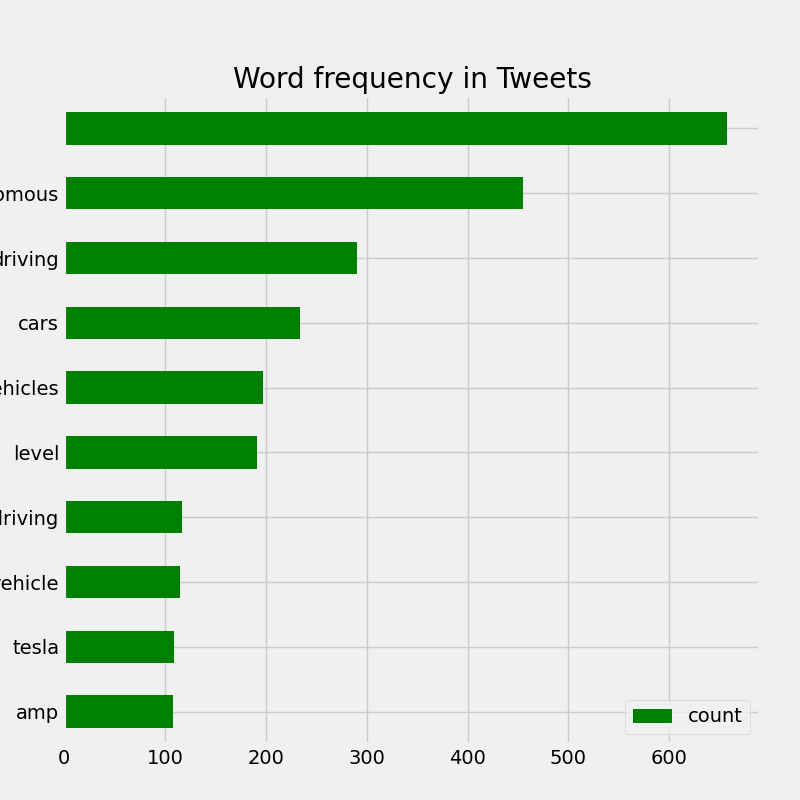
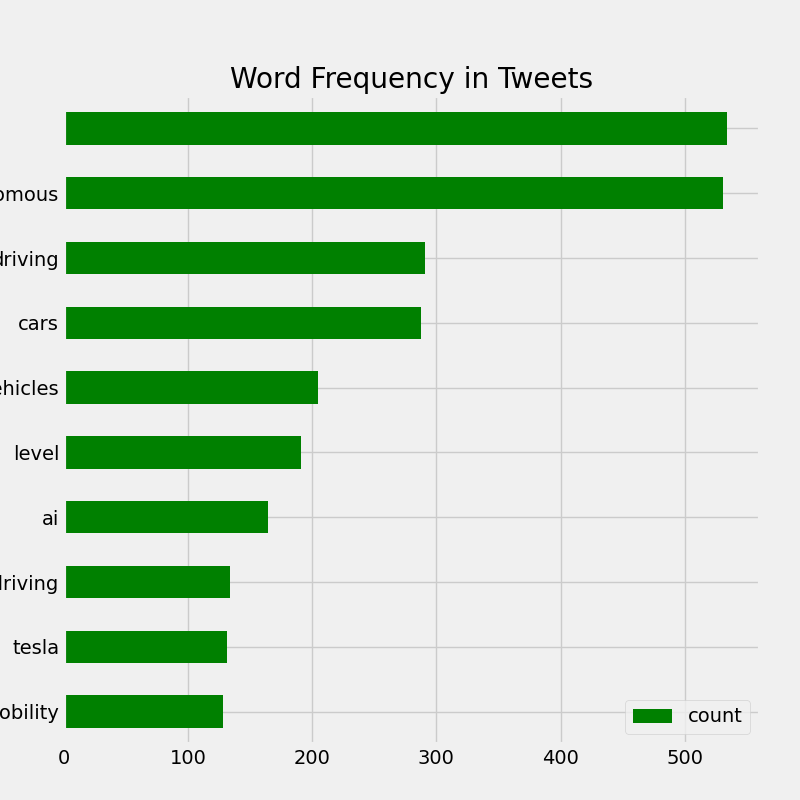
cleanData in datavis - editted how hashtags are handled

diff --git a/datavis.py b/datavis.py
@@ -36,7 +36,7 @@ def cleanData(text):
 
 	# Removals
 	text = re.sub(r'@[A-Za-z0-9]+', '', text)  # Removes mentions
-	text = re.sub(r'#[A-Za-z0-9_]+', '', text)  # Removes hashtags
+	text = re.sub(r'#([^\s]+)', r'\1', text) #Replace #word with word
 	text = re.sub(r'(https?)://[-a-zA-Z0-9@:%_\+.~#?&//=]*', '', text) # Removes hyperlink
 	text = re.sub('[\s]+', ' ', text)  # Removes additional white spaces
 	text = text.strip('\'"').lstrip().rstrip() # Trim
